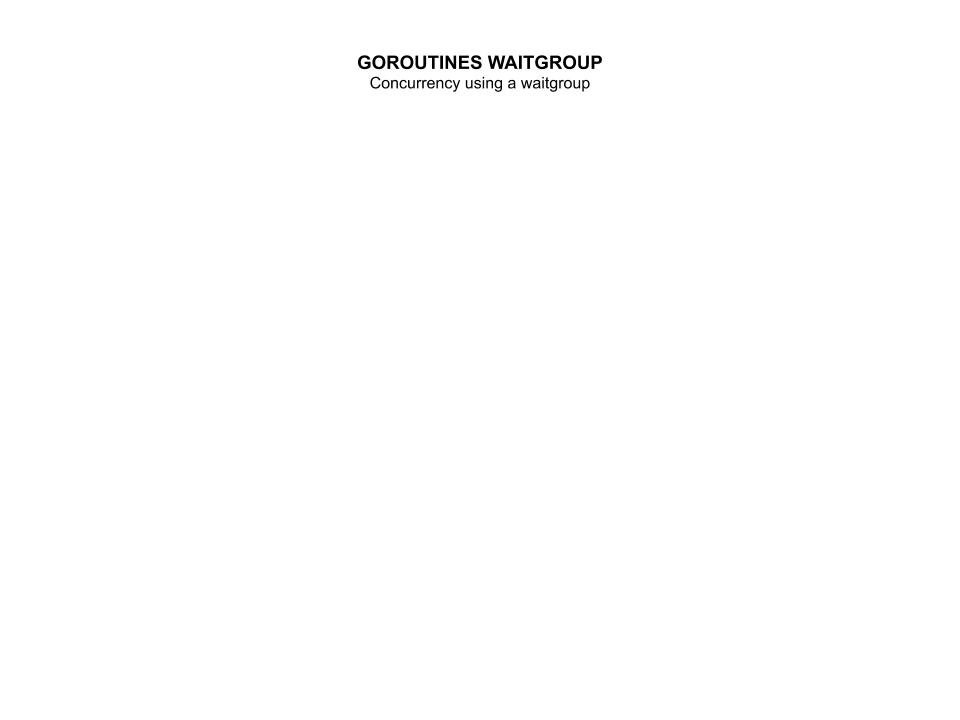
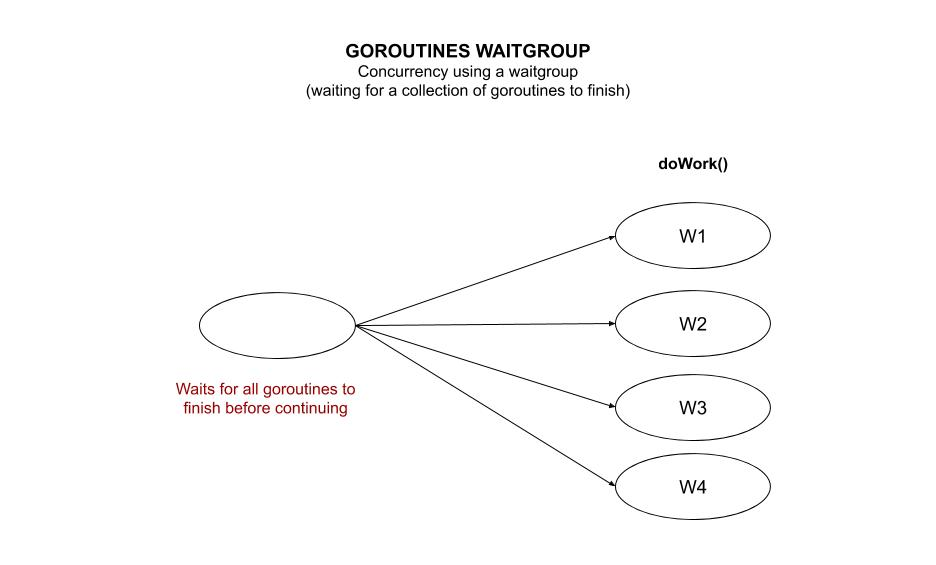
finished waitgroup, creating multi-core for goroutines

diff --git a/goroutines/goroutines-multi-core/goroutines-multi-core.go b/goroutines/goroutines-multi-core/goroutines-multi-core.go
@@ -1,0 +1,63 @@
+package main
+
+import (
+	"fmt"
+
+	"time"
+)
+
+// WORKERS AND CORES
+const numberWorkers = 20
+const numberCores = 3
+
+// OTHER
+var channelBufferSize = 1 // How many channel buffers
+
+// struct to pass in channel
+type workerStats struct {
+	id       int
+	timeTook time.Duration
+}
+
+func doWork(msgCh chan *workerStats, id int) {
+
+	timeStart := time.Now().UTC()
+	time.Sleep(3 * time.Second)
+	timeEnd := time.Now().UTC()
+	timeTook := timeEnd.Sub(timeStart)
+
+	msgCh <- &workerStats{
+		id:       id,
+		timeTook: timeTook,
+	}
+
+}
+
+func getStats(msgCh chan *workerStats) {
+	// Print out stats from each worker
+	for r := range msgCh {
+		fmt.Printf("From Worker %v, Took %v\n", r.id, r.timeTook)
+	}
+}
+
+func main() {
+	// START
+	fmt.Println("Main start time", time.Since(start))
+
+	// Make Channel Buffer
+	msgCh := make(chan *workerStats, channelBufferSize)
+
+	// Create Workers on Core
+	for id := 1; id < numberWorkers+1; id++ {
+		fmt.Println("Starting worker", id)
+		go doWork(msgCh, id)
+
+	}
+
+	// Gather Stats from workers
+	go getStats(msgCh)
+
+	// END
+	fmt.Println("Main end time", time.Since(start))
+
+}

diff --git a/goroutines/goroutines-waitgroup/goroutines_waitgroup.go b/goroutines/goroutines-waitgroup/goroutines_waitgroup.go
@@ -7,32 +7,32 @@ import (
 	"time"
 )
 
-func doWork(i int) {
+const numberWorkers = 20
+
+func doWork(wg *sync.WaitGroup, id int) {
+	// Call Done when finished
+	//defer wg.Done()
+	fmt.Println(id, "Started")
 	time.Sleep(3 * time.Second)
-	fmt.Println(i, "done")
+	fmt.Println(id, "Done")
+	wg.Done()
 }
 
 func main() {
 
-	// Step 1 - create new instance of wait group
+	// Create wait group
 	var wg sync.WaitGroup
 
-	for i := 0; i < 20; i++ {
-		// Step 2 - The number of  goroutines to wait for
+	for i := 0; i < numberWorkers; i++ {
+		// Add goroutines to wait for
 		wg.Add(1)
-		go func(i int) {
-
-			// Step 3 - Execute in the goroutine to indicate that the function finsihed
-			defer wg.Done()
-			time.Sleep(3 * time.Second)
-
-			doWork(i)
-
-		}(i)
+		fmt.Println("Starting worker", i)
+		go doWork(&wg, i)
 
 	}
 
-	// Step 4 Call wait when we want to block
+	// Waits for all the goroutines to finish
+	fmt.Println("Waiting for all the workers to finish")
 	wg.Wait()
-	fmt.Println("All done!")
+	fmt.Println("All workers done!!!!!!!!!!!!!!!!!!")
 }

diff --git a/goroutines/goroutines-waitgroup/README.md b/goroutines/goroutines-waitgroup/README.md
@@ -1,7 +1,7 @@
 # goroutines-waitgroup example
 
 `goroutines-waitgroup`  _is an example of
-concurrency using a waitgroup._
+concurrency using a waitgroup (waiting for a collection of goroutines to finish)._
 
 [GitHub Webpage](https://jeffdecola.github.io/my-go-examples/)
 
@@ -9,4 +9,20 @@ concurrency using a waitgroup._
 
 A WaitGroup allows to wait for a collection of goroutines to finish.
 
+First make a waitgroup,
+
+```go
+var wg sync.WaitGroup
+```
+
+* wg.Add(1) - Add the goroutines to the wg
+* wg.Done() - Call done when goroutine finished
+* wg.Wait() - Wait to all the wg are done
+
 ![IMAGE - goroutines-waitgroup - IMAGE](../../docs/pics/goroutines-waitgroup.jpg)
+
+## RUN
+
+```go
+go run goroutines_waitgroup.go
+```

diff --git a/README.md b/README.md
@@ -187,9 +187,13 @@ _All sections in alphabetical order._
   _Sending data to a goroutine via an async channel.
   Both SEND and RCV will block/wait for data._
 
+* [goroutines-multi-core](https://github.com/JeffDeCola/my-go-examples/tree/master/goroutines/goroutines-multi-core)
+
+  _Concurrency across multi-cores._
+
 * [goroutines-waitgroup](https://github.com/JeffDeCola/my-go-examples/tree/master/goroutines/goroutines-waitgroup)
 
-  _Concurrency using a waitgroup._
+  _Concurrency using a waitgroup (waiting for a collection of goroutines to finish)._
 
 * [goroutines-worker-pools](https://github.com/JeffDeCola/my-go-examples/tree/master/goroutines/goroutines-worker-pools)
 

diff --git a/goroutines/goroutines-multi-core/README.md b/goroutines/goroutines-multi-core/README.md
@@ -1,0 +1,23 @@
+# goroutines-multi-core example
+
+`goroutines-multi-core`  _is an example of
+concurrency across multi-cores._
+
+[GitHub Webpage](https://jeffdecola.github.io/my-go-examples/)
+
+## SETUP
+
+This program will allow you to set the numbers of workers per core and check the
+statistics of each process and core.
+
+```go
+// WORKERS AND CORES
+const numberWorkers = 20
+const numberCores = 3
+```
+
+## RUN
+
+```go
+go run goroutines-multi-core.go
+```
